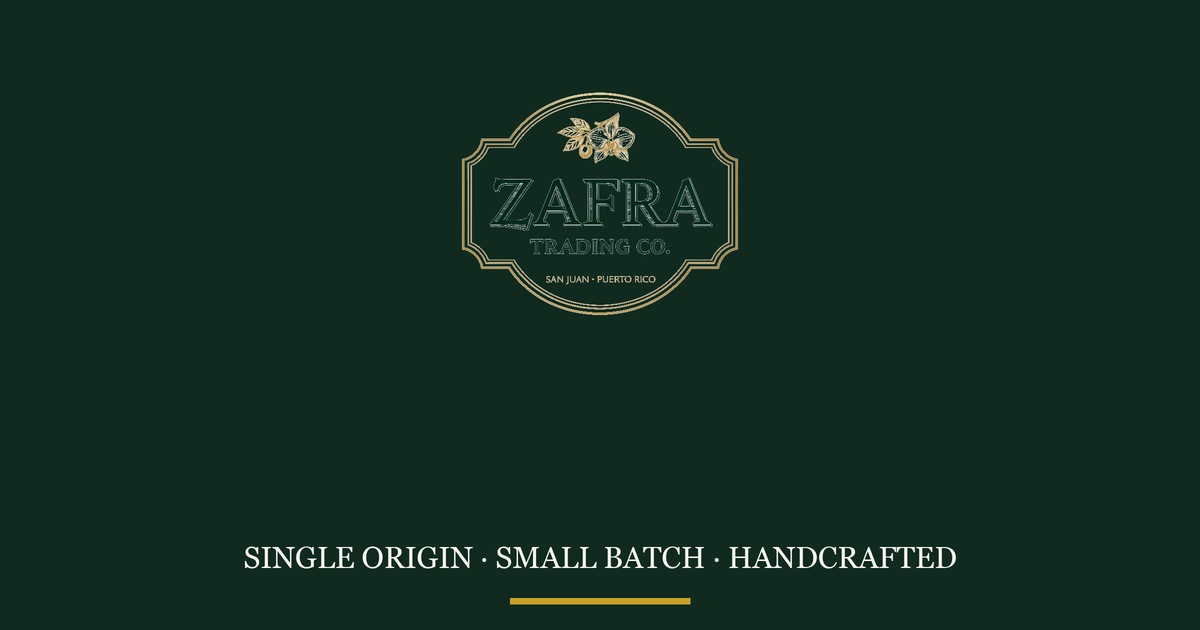
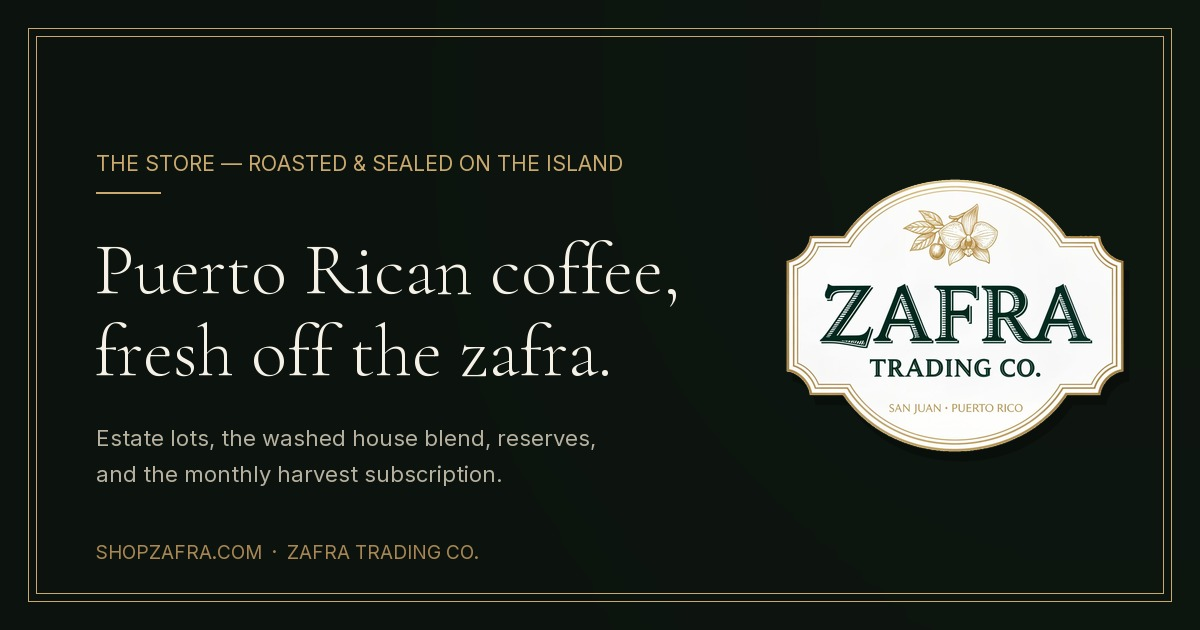
og: dark-brand share cards for house + store, og/twitter meta on house site (JC)

diff --git a/index.html b/index.html
@@ -197,6 +197,17 @@ body{background:#0C130E}
 img{opacity:1}
 ::selection{background:#C9A96E;color:#0C130E}
 </style>
+<meta property="og:title" content="Zafra Trading Co. — Rare harvests from Puerto Rico">
+<meta property="og:description" content="Single-estate coffee, honey, cacao & vanilla — sourced at the farm in the Cordillera Central, shipped to your door.">
+<meta property="og:type" content="website">
+<meta property="og:url" content="https://zafratrading.com/">
+<meta property="og:image" content="https://zafratrading.com/images/og-image.jpg">
+<meta property="og:image:width" content="1200">
+<meta property="og:image:height" content="630">
+<meta name="twitter:card" content="summary_large_image">
+<meta name="twitter:title" content="Zafra Trading Co. — Rare harvests from Puerto Rico">
+<meta name="twitter:description" content="Single-estate coffee, honey, cacao & vanilla — sourced at the farm, shipped to your door.">
+<meta name="twitter:image" content="https://zafratrading.com/images/og-image.jpg">
 </head>
 <body>
 
